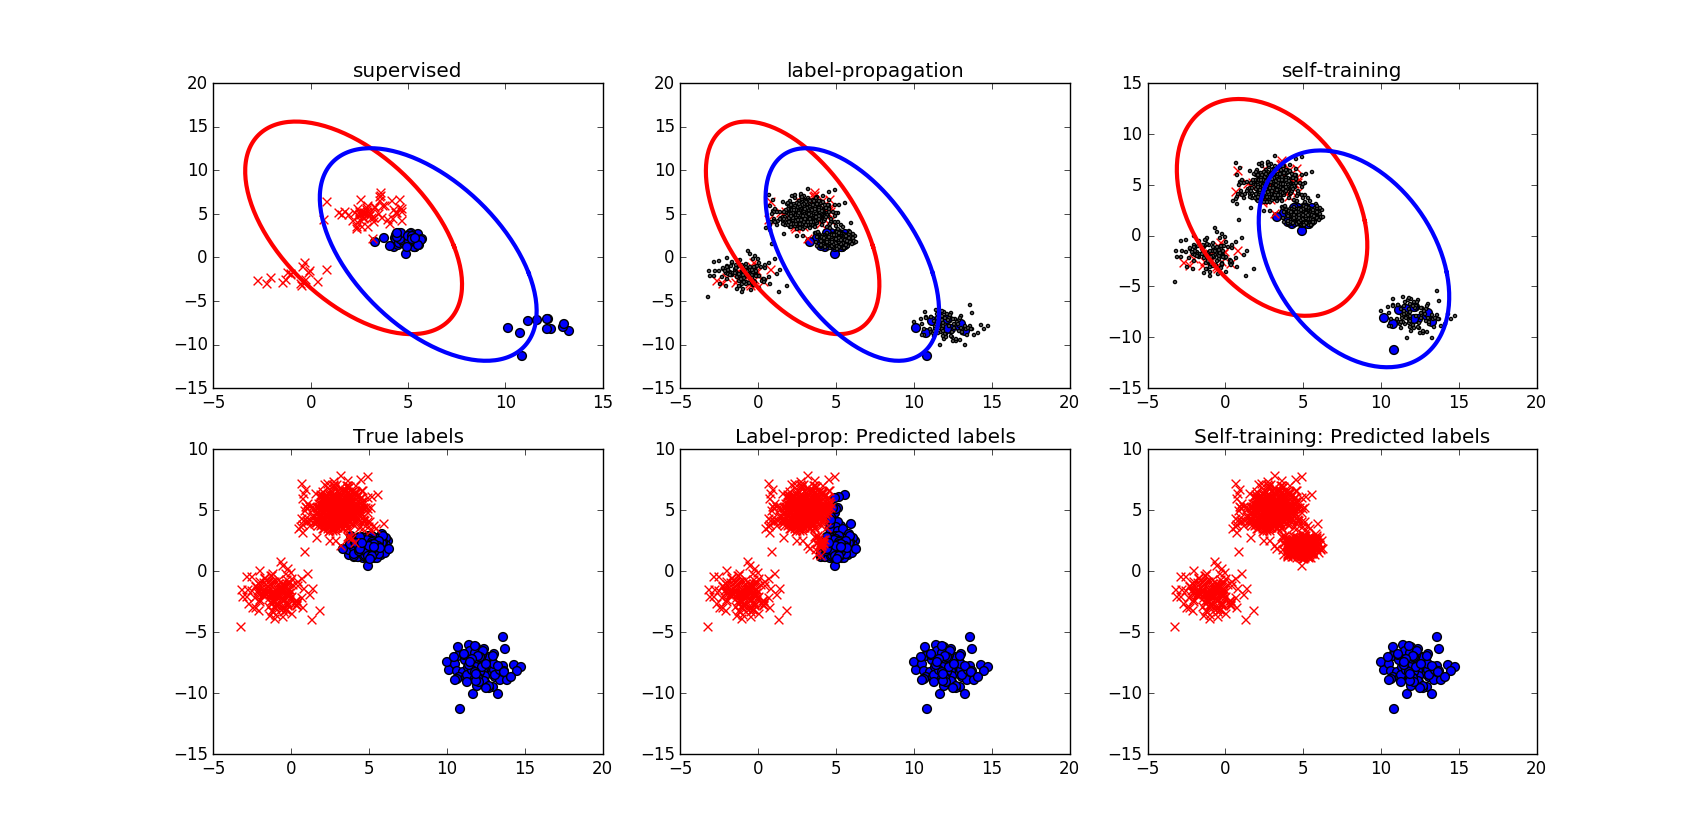
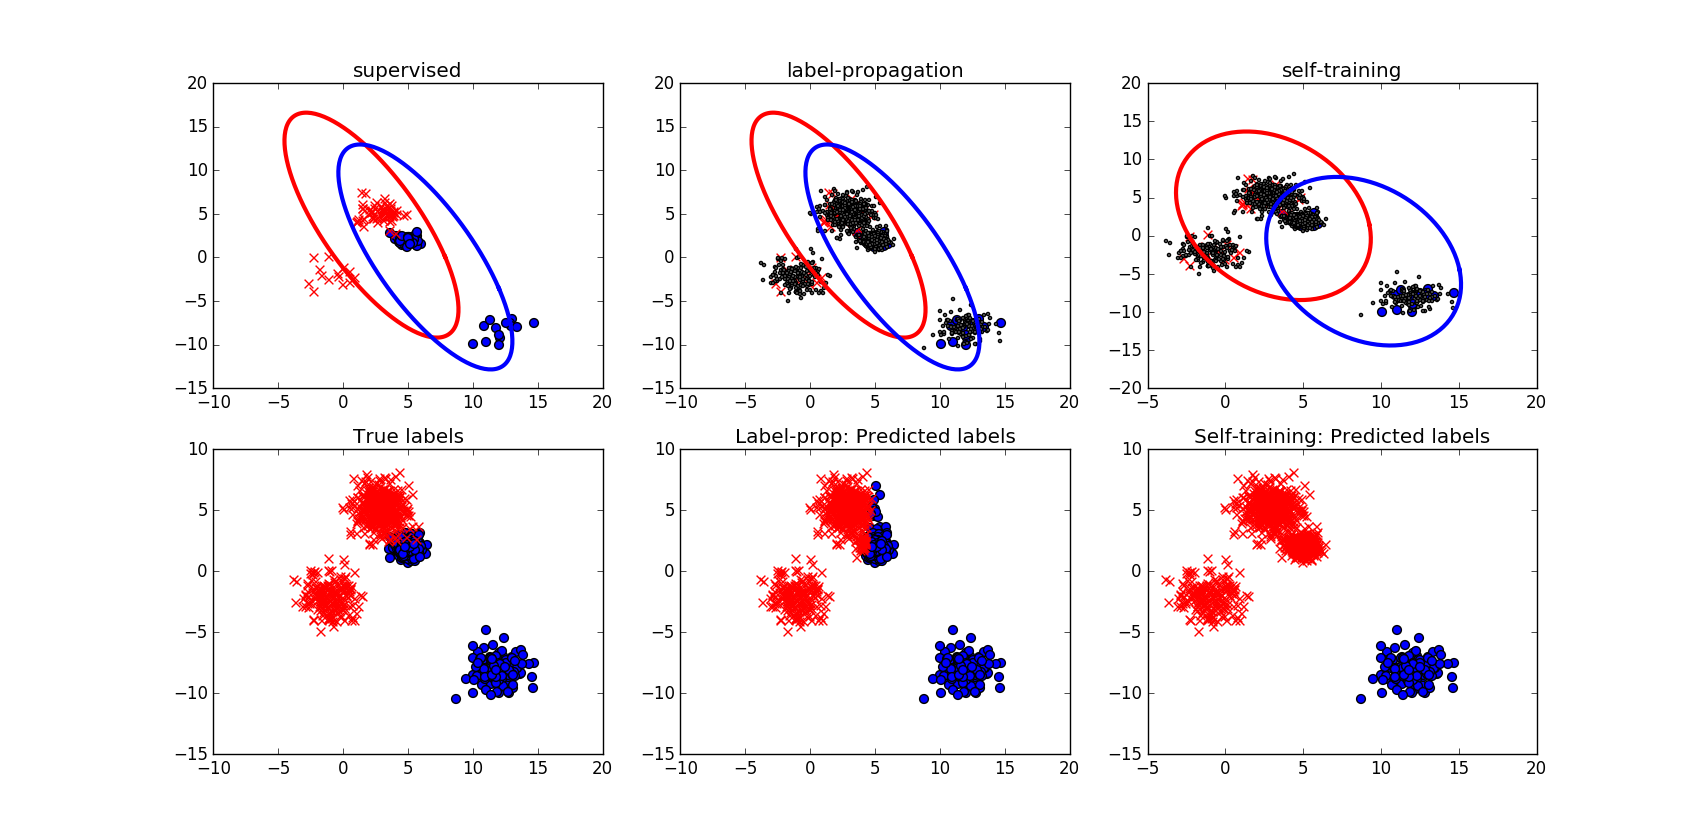
Not sure what this is anymore

diff --git a/Exercise 3/main.py b/Exercise 3/main.py
@@ -57,10 +57,10 @@ def plot_methods(X,y,y_true,max_iter=100):
     data_plot(X, y_true)
     plt.title('True labels')
     plt.subplot('235')
-    #data_plot(X,classifiers['label-propagation'].propagated_labels)
-    #plt.title('Propagation of labels')
-    data_plot(X,classifiers['label-propagation'].predict(X))
-    plt.title('Label-prop: Predicted labels')
+    data_plot(X,classifiers['label-propagation'].propagated_labels)
+    plt.title('Propagation of labels')
+    #data_plot(X,classifiers['label-propagation'].predict(X))
+    #plt.title('Label-prop: Predicted labels')
     plt.subplot('236')
     data_plot(X, classifiers['self-training'].predict(X))
     plt.title('Self-training: Predicted labels')
@@ -188,29 +188,29 @@ def gaussianData(N, mean1=[0,0], cov1=np.eye(2),mean2=[0,0], cov2=np.eye(2)):
 
 def customData1(N, p):
     gaussian1 = lambda N: rnd.multivariate_normal([3,5], np.array([[1,0],[0,1]]), size=N)
-    gaussian2 = lambda N: rnd.multivariate_normal([-1,-2], np.array([[1,0],[0,1]]), size=N)
-    gaussian3 = lambda N: rnd.multivariate_normal([5,2], np.array([[0.2,0],[0,0.2]]), size=N)
+    gaussian2 = lambda N: rnd.multivariate_normal([-1,2], np.array([[1,0],[0,1]]), size=N)
+    gaussian3 = lambda N: rnd.multivariate_normal([5,2], np.array([[1,0],[0,1]]), size=N)
     gaussian4 = lambda N: rnd.multivariate_normal([12,-8], np.array([[1,0],[0,1]]), size=N)
 
     def path(N):
-        x = np.atleast_2d(rnd.uniform(3, 7, N))
+        x = np.atleast_2d(rnd.uniform(1, 7, N))
         y = np.atleast_2d(0*np.ones(N))
         return np.concatenate((x.T,y.T),axis=1)
 
     def pathc(N):
-        gen = circularGenerator(7.5,0.1,angle_range=(0,-m.pi))
-        gen = circularGenerator(7.5,0.1,angle_mean=-m.pi/2, angle_variance=m.pi/4)
-        return np.array([7.5,0]) + gen(N)
+        #gen = circularGenerator(7.5,0.1,angle_range=(0,-m.pi))
+        gen = circularGenerator(radius_mean=7, radius_variance=0.1, angle_mean=5/6*m.pi, angle_variance=m.pi/4)
+        return np.array([-3,4]) + gen(N)
 
     def getGen(N,probabilities):
         inds = rnd.choice(np.arange(0,len(probabilities)), size=N, p=probabilities)
         Ns = [len(np.where(inds==i)[0]) for i in range(0,len(probabilities))]
-        data = np.concatenate((gaussian1(Ns[0]), gaussian2(Ns[1]),gaussian3(Ns[2]),gaussian4(Ns[3]),path(Ns[4])), axis=0)  
+        data = np.concatenate((gaussian1(Ns[0]), gaussian2(Ns[1]),gaussian3(Ns[2]),gaussian4(Ns[3]),pathc(Ns[4])), axis=0)  
         rnd.shuffle(data)
         return data 
 
-    gen1 = lambda N: getGen(N,[0.7, 0.3, 0, 0, 0])        
-    gen2 = lambda N: getGen(N,[0  ,0 , 0.8, 0.2 , 0  ])
+    gen1 = lambda N: getGen(N,[0.7 , 0.3 , 0, 0, 0, 0])        
+    gen2 = lambda N: getGen(N,[0 , 0 , 0.8, 0.2 , 0  ])
     return generateData(gen1, gen2, N, p=p)
 
 def circularGenerator(radius_mean, radius_variance, angle_range=(0,2*m.pi), angle_mean=None, angle_variance=None):
@@ -227,13 +227,13 @@ def circularGenerator(radius_mean, radius_variance, angle_range=(0,2*m.pi), angl
     
 
 def main():
-    N_unlabelled = [0,10, 20, 40,60, 80,140,250,320,400,500,640,750,900,1280,1500]
+    N_unlabelled = [0,10, 20, 40,60, 80,140,250,320,400,500,640,750,900,1280]
     #N_unlabelled = [0,50,100,200,300]
     methods = ['supervised', 'self-training','label-propagation']
-    repeat = 50
+    repeat = 5
     #spambase(repeat, N_unlabelled=N_unlabelled)
  
-    N1,N2, Nunl = 75, 75, 1000
+    N1,N2, Nunl = 75, 75, 1200
     mean1, mean2 = [0,0], [0,0]
     cov1 = np.array([[10,0],[0,1]])
     cov2 = np.array([[1,0],[0,10]])
@@ -242,7 +242,7 @@ def main():
     circGen = circularGenerator(radius_mean=5, radius_variance=0.5, angle_mean=m.pi/2, angle_variance=m.pi/3)
     #circGen = circularGenerator(radius_mean=5, radius_variance=0.5, angle_range=(-1/4*m.pi, 5/4*m.pi))
     #X,y = generateData(gaussGen, circGen, N1+N2, p=0.8)
-    p = 0.5
+    p = 0.2
     X,y = customData1(N1+N2+10000, p=p)
     X_train, y_train,y_train_true, X_test, y_test = splitData(X,y,N1,N2,Nunl=Nunl, p=p)
     #plt.figure(0)
